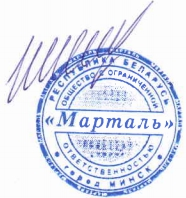
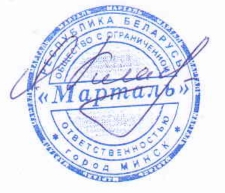
NK edit

diff --git a/controllers/BalanceController.php b/controllers/BalanceController.php
@@ -140,7 +140,7 @@ class BalanceController extends Controller
                 "official_rs" => "р/с BY54ALFA30122122470010270000, в банке ЗАО &quot;Альфа-Банк&quot;.  Центральный офис ул.Советская, 12, 220030, г.Минск, БИК ALFABY2X",
                 "official_phone" => "тел.: +375 (29) 112 45 45",
                 "official_faximille" => "https://b2b.".\Yii::$app->params['migom_domain']."/img/design/faximille_martal.jpg",
-                "official_owner" => "Шмык О.Д.",
+                "official_owner" => "Кладухина О.Н.",
                 "official_percent" => "20",
                 "official_nds" => "Сумма НДС:",
             );
